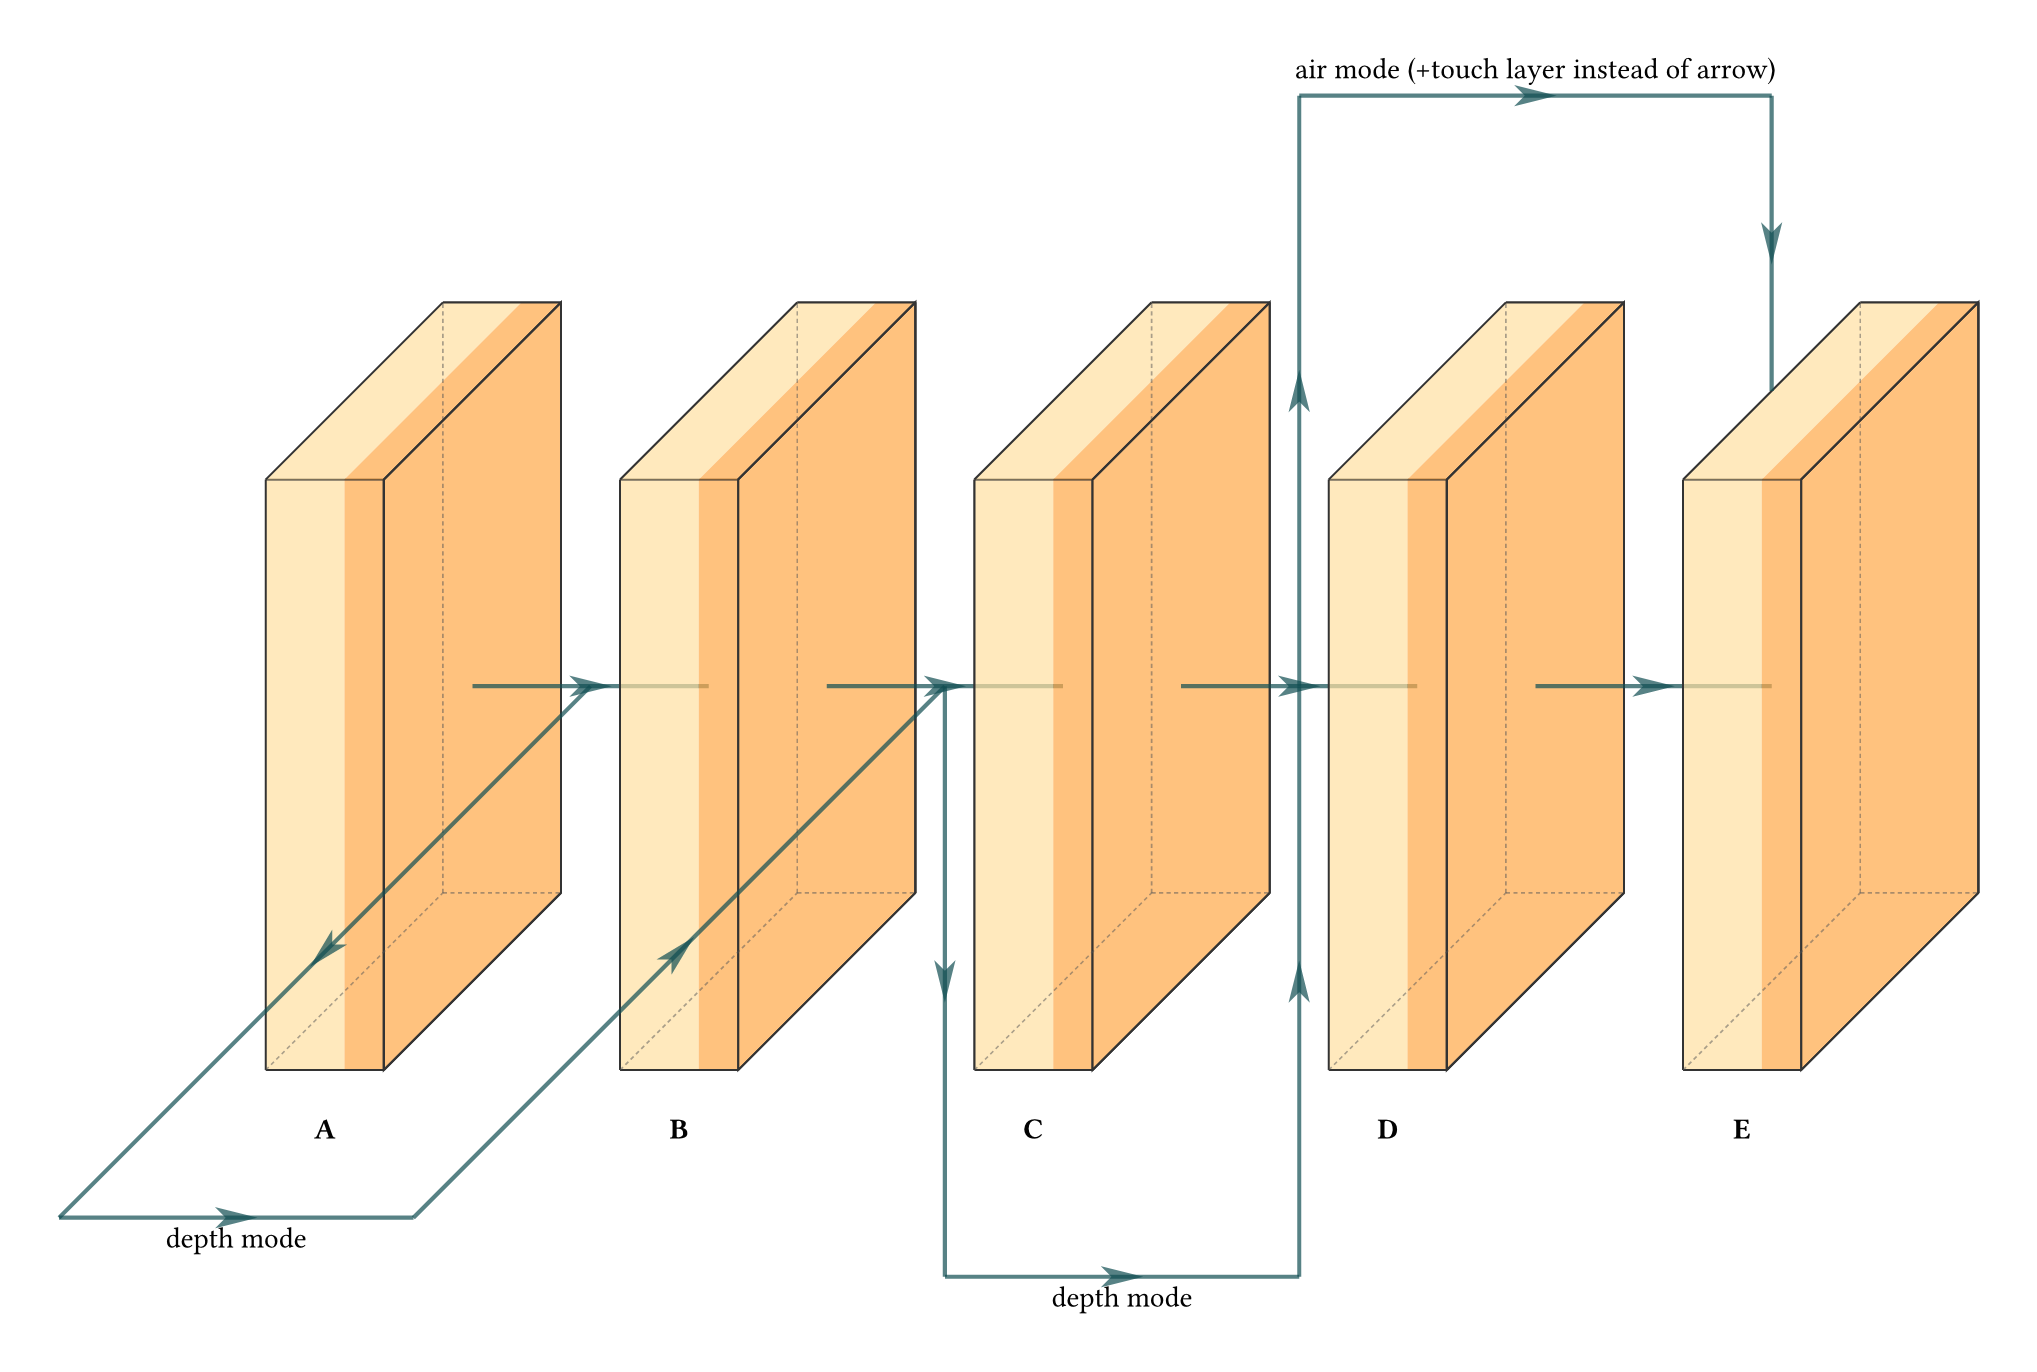
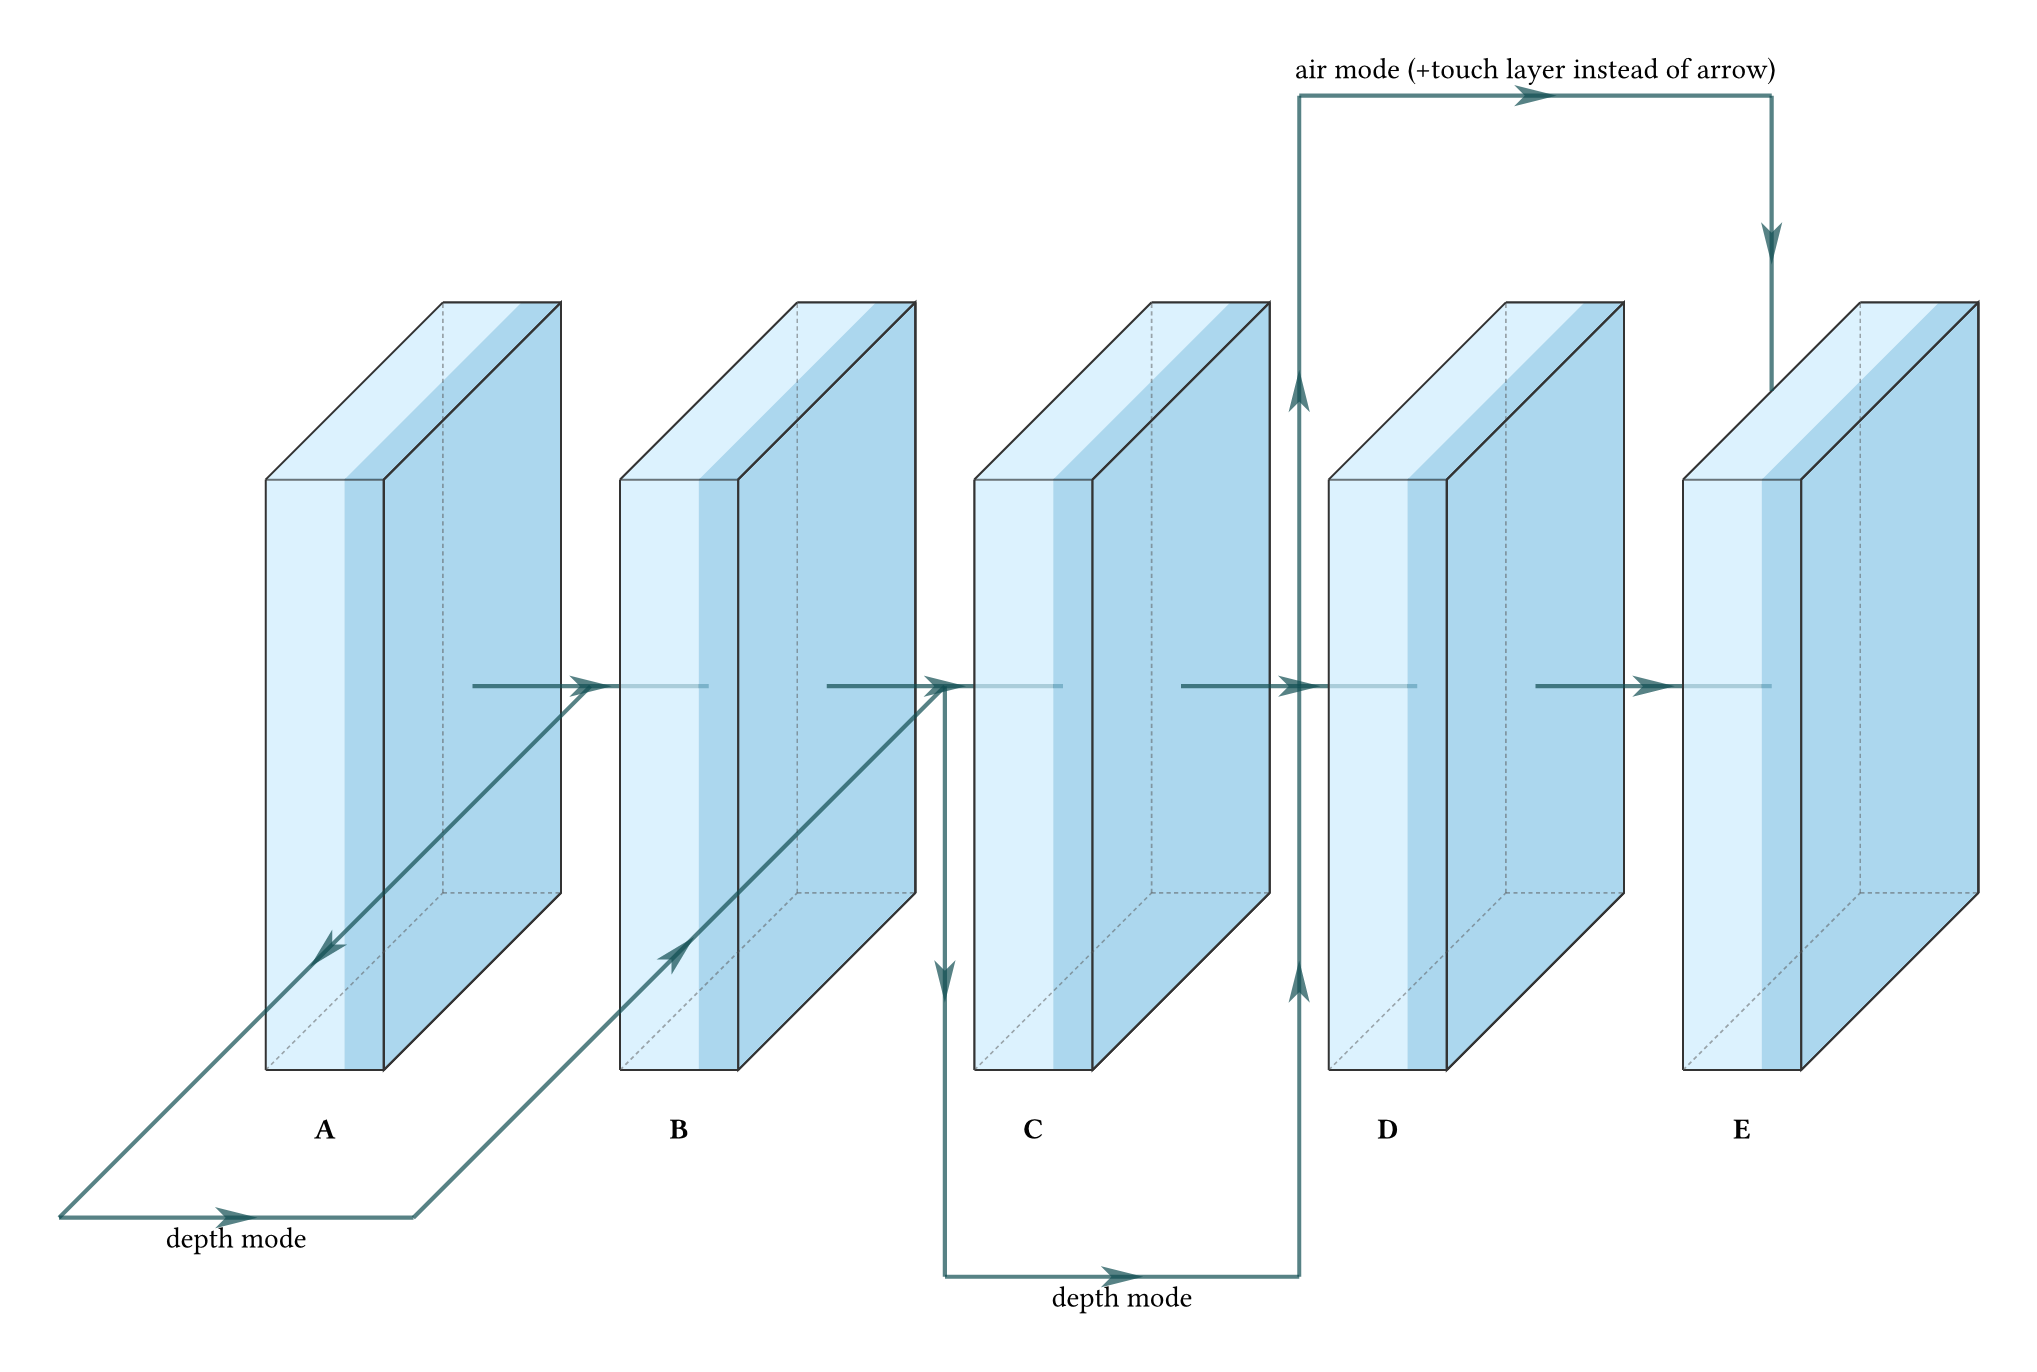
Added color palette visuals

diff --git a/README.md b/README.md
@@ -1,9 +1,11 @@
 # neural-netz
 Visualize Neural Network Architectures in high-quality diagrams in [Typst](https://typst.app), with style and API inspired by [PlotNeuralNet](https://github.com/HarisIqbal88/PlotNeuralNet).
 
-Under the hood, this package only uses the native Typst package [CeTZ](https://typst.app/universe/package/cetz/) for building the diagrams.
+<img src="https://github.com/edgaremy/neural-netz/blob/main/gallery/features/FCN-8(cold).png?raw=true" width="500" align="center">
+<img src="https://github.com/edgaremy/neural-netz/blob/main/gallery/networks/FCN-8.png?raw=true" width="500" align="center">
 
-TODO ADD IMAGE
+
+Under the hood, this package only uses the native Typst package [CeTZ](https://typst.app/universe/package/cetz/) for building the diagrams.
 
 # Usage
 
@@ -71,6 +73,9 @@ Here are a few simple features for getting started.
 ))
 ```
 <img src="https://github.com/edgaremy/neural-netz/blob/main/gallery/features/dimensions-labels.png?raw=true" width="300" align="center">
+
+Additionally, if you network does not fit the page width of your Typst document, you can reduce the scale by giving `scale: 50%` as argument of `draw-network`
+
 
 ### Adding other connexions
 
